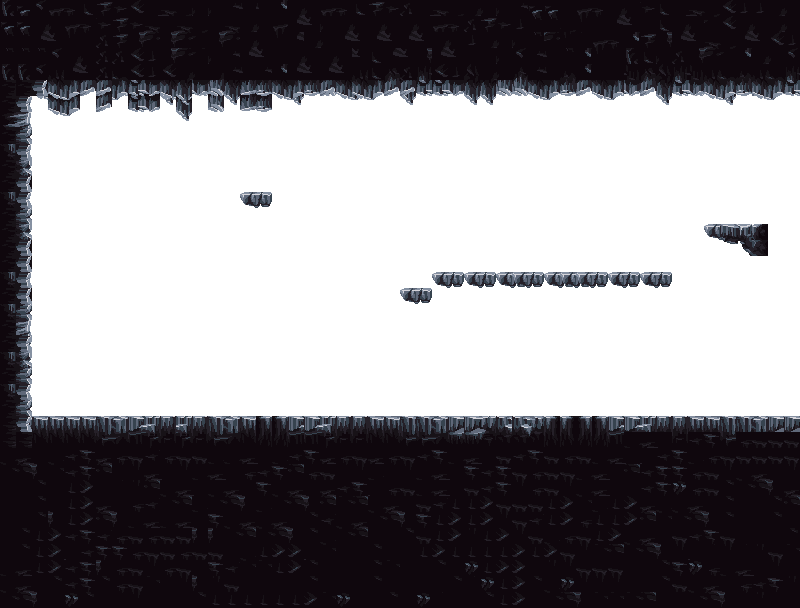
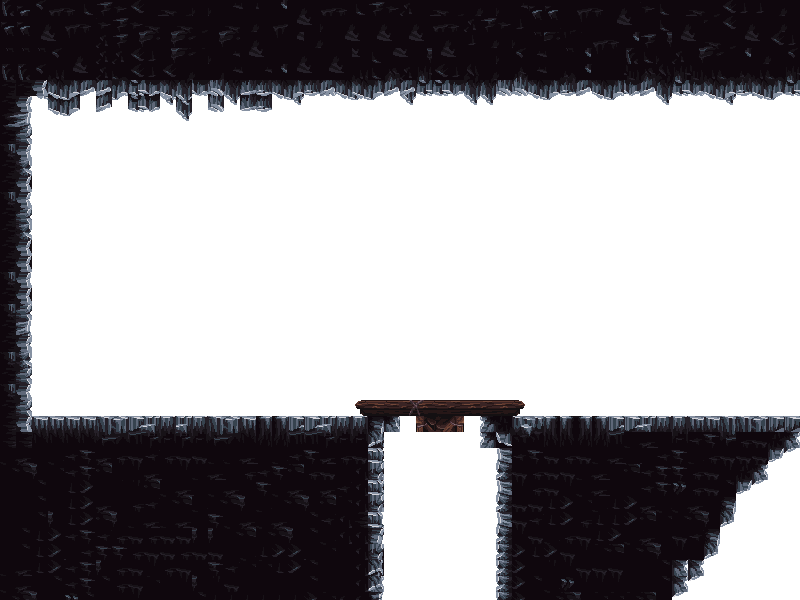
feat: add map

diff --git a/src/Warriors91I/PlatformsBuilder.java b/src/Warriors91I/PlatformsBuilder.java
@@ -4,75 +4,83 @@ import Doctrina.Canvas;
 import Doctrina.Physics;
 
 import java.util.ArrayList;
+import java.util.List;
 
 public class PlatformsBuilder {
 
-    private final ArrayList<Platform> groundPlatforms = new ArrayList<>();
-    private final ArrayList<Platform> wallPlatforms = new ArrayList<>();
-    private final ArrayList<Platform> flyingPlatforms = new ArrayList<>();
-    private final int[][] map;
+    private final List<Platform> groundPlatforms = new ArrayList<>();
+    private final List<Platform> wallPlatforms = new ArrayList<>();
+    private final List<Platform> flyingPlatforms = new ArrayList<>();
+    private final List<int[][]> maps = new ArrayList<>();
     private final ArrayList<Physics> physicsList;
 
     public PlatformsBuilder(ArrayList<Physics> physicsList) {
         this.physicsList = physicsList;
-        this.map = FileLoader.loadCsvFile(55, 50, "resources/IntGrid.csv");
+
+        // Chargement des cartes
+        maps.add(FileLoader.loadCsvFile(55, 50, "resources/IntGrid.csv"));
+        maps.add(FileLoader.loadCsvFile(55, 50, "resources/IntGrid1.csv"));
+        maps.add(FileLoader.loadCsvFile(55, 50, "resources/IntGrid2.csv"));
+        maps.add(FileLoader.loadCsvFile(55, 50, "resources/IntGrid3.csv"));
+        maps.add(FileLoader.loadCsvFile(55, 50, "resources/IntGrid4.csv"));
+
     }
 
+    // Initialisation des plateformes
     public void initializeMap() {
-        generatePlatformsFromMap();
+        generatePlatformsFromMaps();
     }
 
+    // Application des règles de physique
     public void initializePhysics() {
-        applyPhysics(groundPlatforms, false);
-        applyPhysics(flyingPlatforms, true);
+        applyPhysics(groundPlatforms, false); // Physique au sol
+        applyPhysics(flyingPlatforms, true);  // Physique en l'air
     }
 
-
-    private void generatePlatformsFromMap() {
+    private void generatePlatformsFromMaps() {
         int tileSize = 16;
-        System.out.println(map.length);
+        int offsetX = 0;
 
+        for (int[][] map : maps) {
+            for (int row = 0; row < map.length; row++) {
+                for (int col = 0; col < map[row].length; col++) {
+                    int value = map[row][col];
+                    int x = col * tileSize + offsetX;
+                    int y = row * tileSize;
 
-
-        for (int row = 0; row < map.length; row++) {
-            for (int col = 0; col < map[row].length; col++) {
-                int value = map[row][col];
-                int x = col * tileSize;
-                int y = row * tileSize;
-
-                switch (value) {
-                    case 1 -> groundPlatforms.add(new Platform(x, y, PlatformType.GROUND));
-                    case 2 -> wallPlatforms.add(new Platform(x, y, PlatformType.WALL));
-                    case 3 -> flyingPlatforms.add(new Platform(x, y, PlatformType.ROOF));
-                    case 4 -> flyingPlatforms.add(new Platform(x, y, PlatformType.FLYING));
+                    switch (value) {
+                        case 1 -> groundPlatforms.add(new Platform(x, y, PlatformType.GROUND));
+                        case 2 -> wallPlatforms.add(new Platform(x, y, PlatformType.WALL));
+                        case 3 -> flyingPlatforms.add(new Platform(x, y, PlatformType.ROOF));
+                        case 4 -> flyingPlatforms.add(new Platform(x, y, PlatformType.FLYING));
+                    }
                 }
             }
+            offsetX += 800;
         }
     }
 
-    private void applyPhysics(ArrayList<Platform> platforms, boolean inTheAir) {
+    private void applyPhysics(List<Platform> platforms, boolean inTheAir) {
         for (Platform platform : platforms) {
-            for (Blockade blockade : platform.getBlockade()) {
-                for (Physics physics : physicsList) {
+            for (Physics physics : physicsList) {
+                for (Blockade blockade : platform.getBlockade()) {
                     if (inTheAir) {
                         physics.checkCollisionsInTheAir(blockade);
                     } else {
                         physics.checkCollisions(blockade);
                     }
                 }
-            }
-            for (Physics physics : physicsList) {
+                if (platform.getBlockade().length > 1) {
                     physics.roofImpact(platform.getBlockade()[1]);
+                }
             }
         }
     }
 
-
     public void drawMap(Canvas canvas) {
-
     }
 
-    private void drawPlatforms(Canvas canvas, ArrayList<Platform> platforms) {
+    private void drawPlatforms(Canvas canvas, List<Platform> platforms) {
         for (Platform platform : platforms) {
             platform.draw(canvas);
         }

diff --git a/src/Warriors91I/World.java b/src/Warriors91I/World.java
@@ -7,16 +7,38 @@ import java.awt.*;
 import java.io.IOException;
 
 public class World {
-    private static final String MAP_PATH = "images/tiles.png";
+    private static final String MAP_LEVEL0_PATH = "images/tiles.png";
 
-    private Image background;
+    private static final String MAP_LEVEL1_PATH = "images/tiles1.png";
+    private static final String MAP_LEVEL2_PATH = "images/tiles2.png";
+    private static final String MAP_LEVEL3_PATH = "images/tiles3.png";
+    private static final String MAP_LEVEL4_PATH = "images/tiles4.png";
+
+    private Image level_0;
+    private Image level_1;
+    private Image level_2;
+    private Image level_3;
+    private Image level_4;
+
 
     public void load() {
         try {
             System.out.println();
 
-            background = ImageIO.read(
-                    getClass().getClassLoader().getResourceAsStream(MAP_PATH)
+            level_0 = ImageIO.read(
+                    getClass().getClassLoader().getResourceAsStream(MAP_LEVEL0_PATH)
+            );
+            level_1 = ImageIO.read(
+                    getClass().getClassLoader().getResourceAsStream(MAP_LEVEL1_PATH)
+            );
+            level_2 = ImageIO.read(
+                    getClass().getClassLoader().getResourceAsStream(MAP_LEVEL2_PATH)
+            );
+            level_3 = ImageIO.read(
+                    getClass().getClassLoader().getResourceAsStream(MAP_LEVEL3_PATH)
+            );
+            level_4 = ImageIO.read(
+                    getClass().getClassLoader().getResourceAsStream(MAP_LEVEL4_PATH)
             );
 
         } catch (IOException e) {
@@ -26,10 +48,13 @@ public class World {
         }
     }
     public void draw(Canvas canvas) {
-        canvas.drawRectangle(0,0,1000,1000,Color.black);
-        canvas.drawImage(background, 0, -0);
-        canvas.drawImage(background, 800, -0);
-        canvas.drawImage(background, 800*2, -0);
+        canvas.drawRectangle(0,0,10000,10000,Color.black);
+        canvas.drawImage(level_0, 0, -0);
+        canvas.drawImage(level_1, 800, -0);
+        canvas.drawImage(level_2, 800*2, -0);
+        canvas.drawImage(level_3, 800*3, -0);
+        canvas.drawImage(level_4, 800*4, -0);
+
 
     }
 }

diff --git a/src/Warriors91I/Player.java b/src/Warriors91I/Player.java
@@ -135,7 +135,6 @@ public class Player extends ControllableEntity {
             canvas.drawImage(leftFrames[currentAnimationFrame], x, y, 64*2, 40*2 );
         }
 
-//        drawHitBox(canvas);
     }
 
     public void drawHealthBar(Canvas canvas) {

diff --git a/src/Warriors91I/App.java b/src/Warriors91I/App.java
@@ -2,6 +2,7 @@ package Warriors91I;
 
 public class App {
     public static void main(String[] args) {
+
         new WarriorsGame().start();
     }
 }
